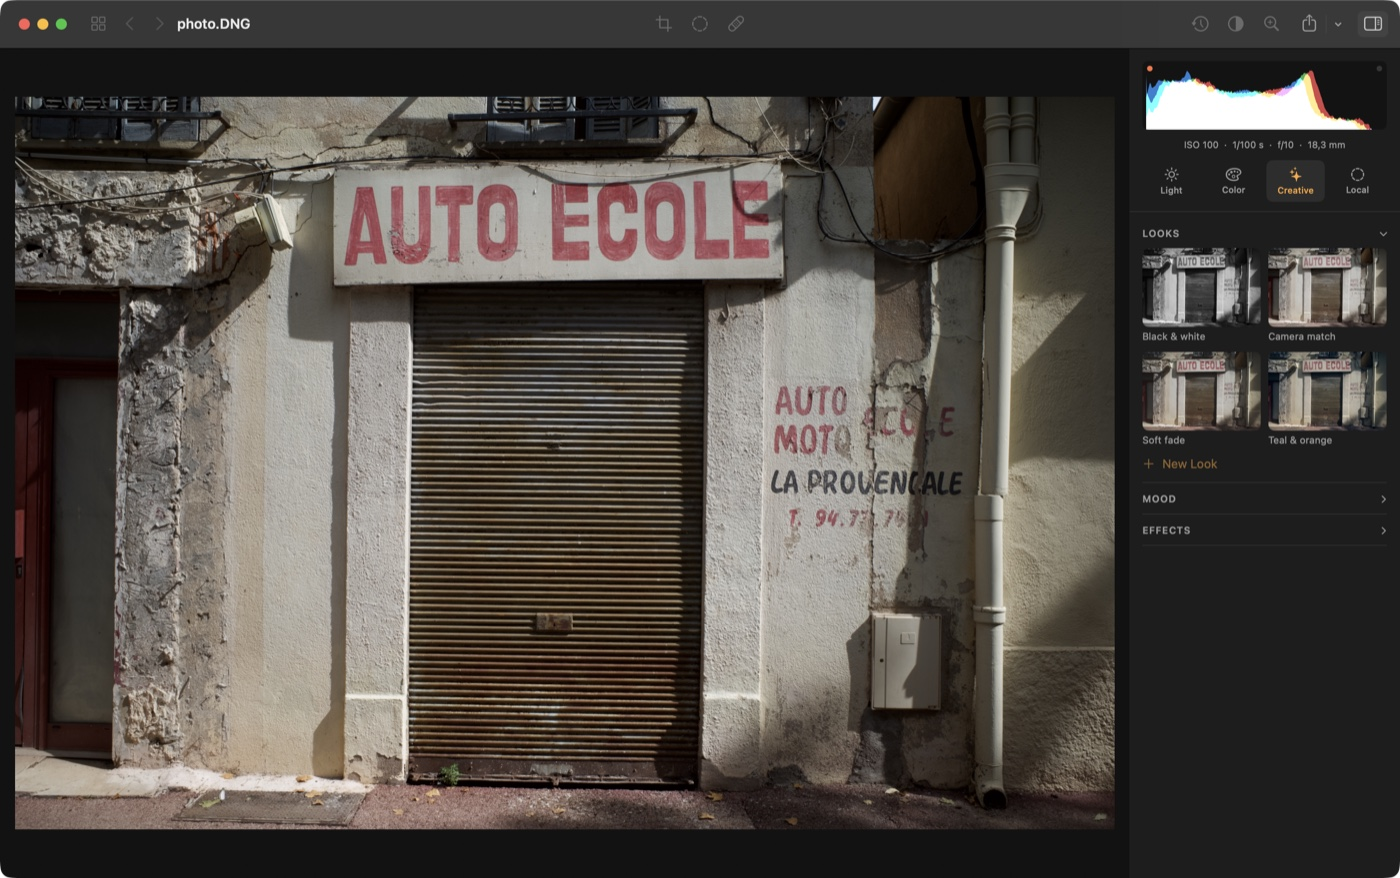
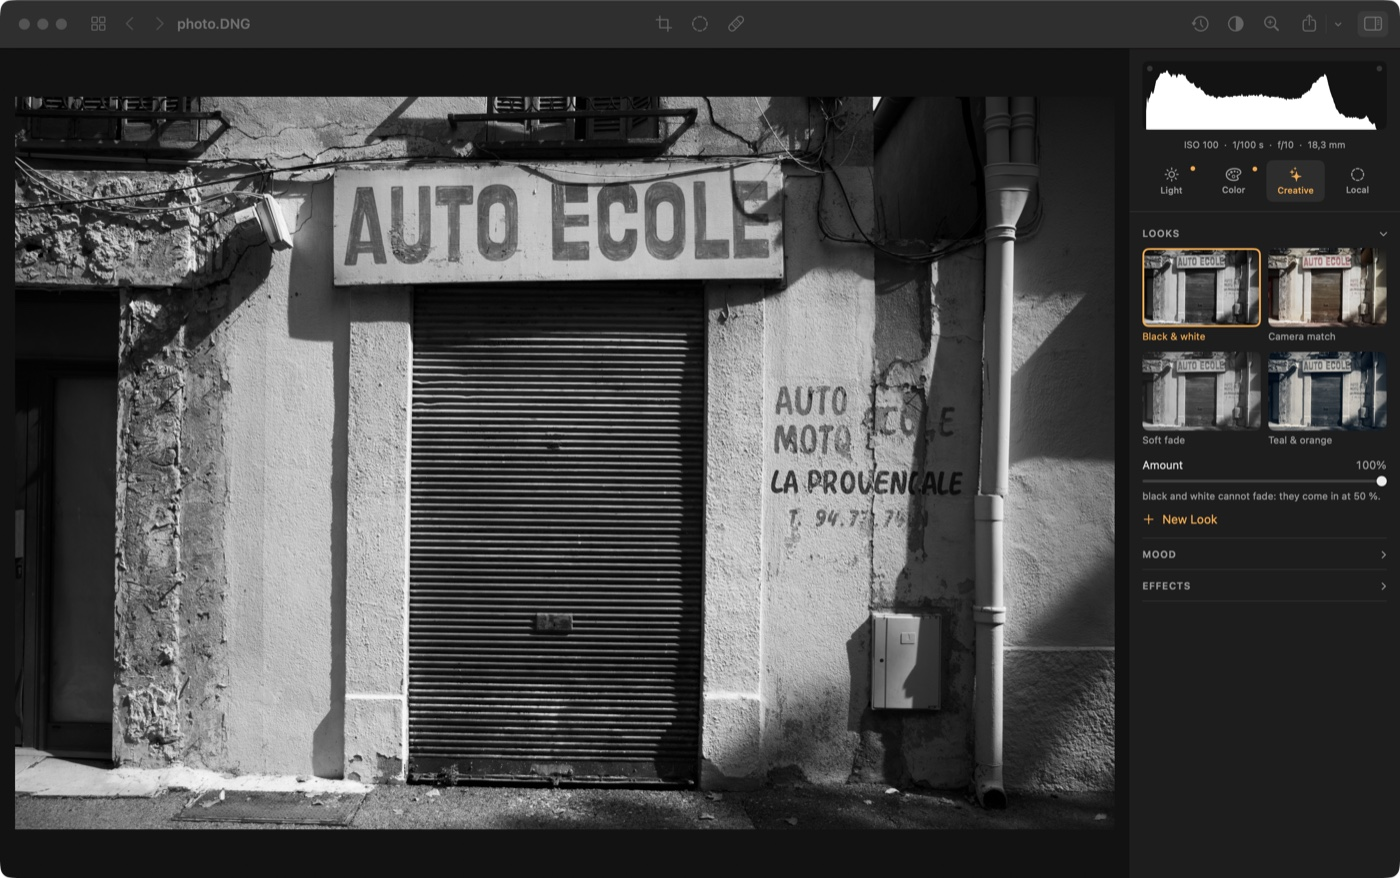
Show the library, and a look actually doing something
The looks panel was showing a neutral photograph beside four thumbnails, which
demonstrates nothing: the black and white look is now applied, so the canvas
shows what was chosen and the thumbnails show the alternatives. The script
writes that built-in out as a document and passes it in.

And a fourth screenshot, the grid, which needed a library with more than one
photograph in it. The script takes a second argument naming a shoot to import
for that shot, and skips it when none is given rather than filling the grid with
whatever is lying about.

diff --git a/README.md b/README.md
@@ -33,11 +33,13 @@ second.
 
 Non-destructive. Your originals are never written to.
 
-| Looks, as thumbnails of your own photograph | Crop, rotate, straighten |
+| A look, and the others as thumbnails of your own photograph | Crop, rotate, straighten |
 |---|---|
 | ![The looks panel](Screenshots/looks.jpg) | ![The crop tool](Screenshots/crop.jpg) |
 
 ## The library
+
+![The library](Screenshots/library.jpg)
 
 Import a folder or a card (⇧⌘I) — originals are copied in, never moved, duplicates skipped.
 Ratings, flags, colour labels, keywords, albums and smart albums, and filters over all of it.
